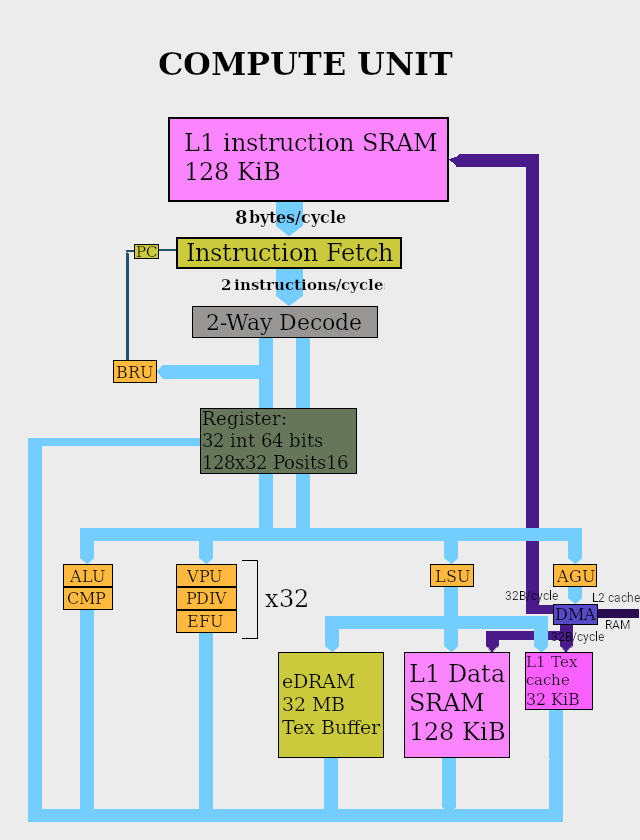
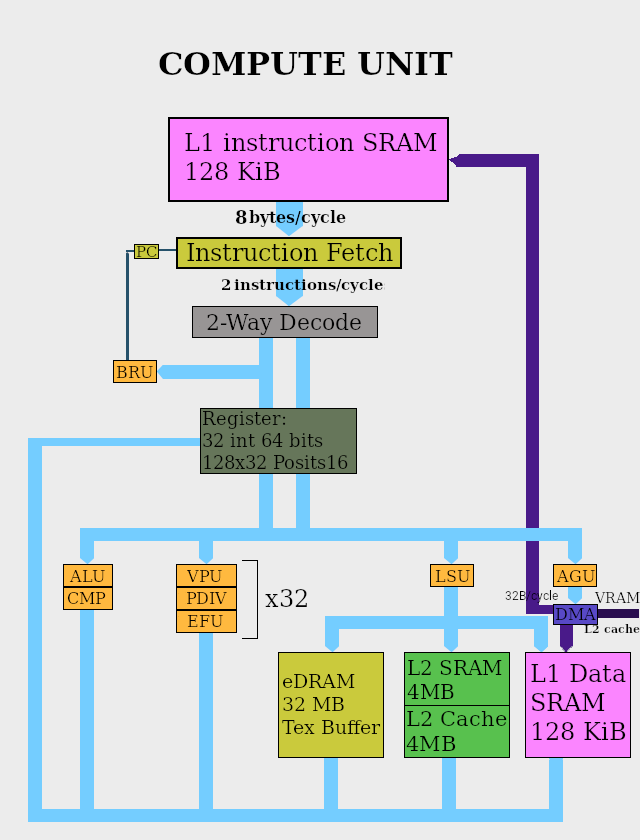
GPU

Changed region(s): [[0.625, 0.681, 1.0, 0.9286]]

diff --git a/README.md b/README.md
@@ -49,11 +49,12 @@ The advantage of this processor is that it has a simple design, and requires lit
 <img src="die.png?raw=true" alt="CPU" width="256" height="256">
 
 
+
 # Altair GPU
 
 Altair for GPU shares many points in common with the CPU version, it is a simplified version oriented parallel computing and rendering.
 
-So Altair G1 is a VLIW command processor.  
+So Altair G1 is a VLIW in order processor.  
 It has the same L1 cache count.  
 It has 32MB eDRAM memory for textures.  
 A 128 KB SRAM for texture indexes (to manage palettes or VQ).  
@@ -70,8 +71,8 @@ he has access to EDRAM which will take several cycles.
 The EFU will have all the necessary instructions to speed up calculations and 3D rendering.  
 (sin, cos, arctan, dot, rasterization, Min / Max, Clip, Culling / Sorting etc etc).  
 
-
-It has a L2 SRAM 4 MB to manage the code or the data of the different shader.  
+The L2 SRAM (4MB), contains the vertex / tectcoord / normal / index / color / other + code of the shader.
+if the capacity of the SRAM is insufficient, the L2 cache is used.
 
 The Pixel Process Unit is used to manage the Frame buffer / Zbuffer and Blending.  
 The compute unit does the various necessary calculations and indicates a pixel line to write.  
